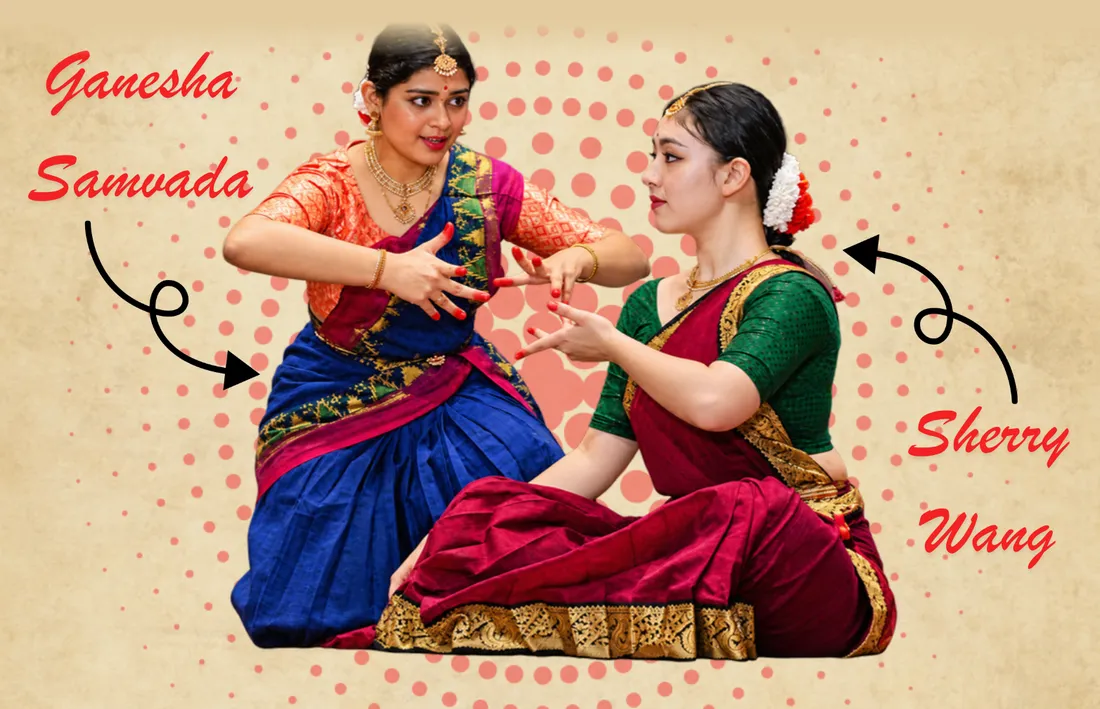
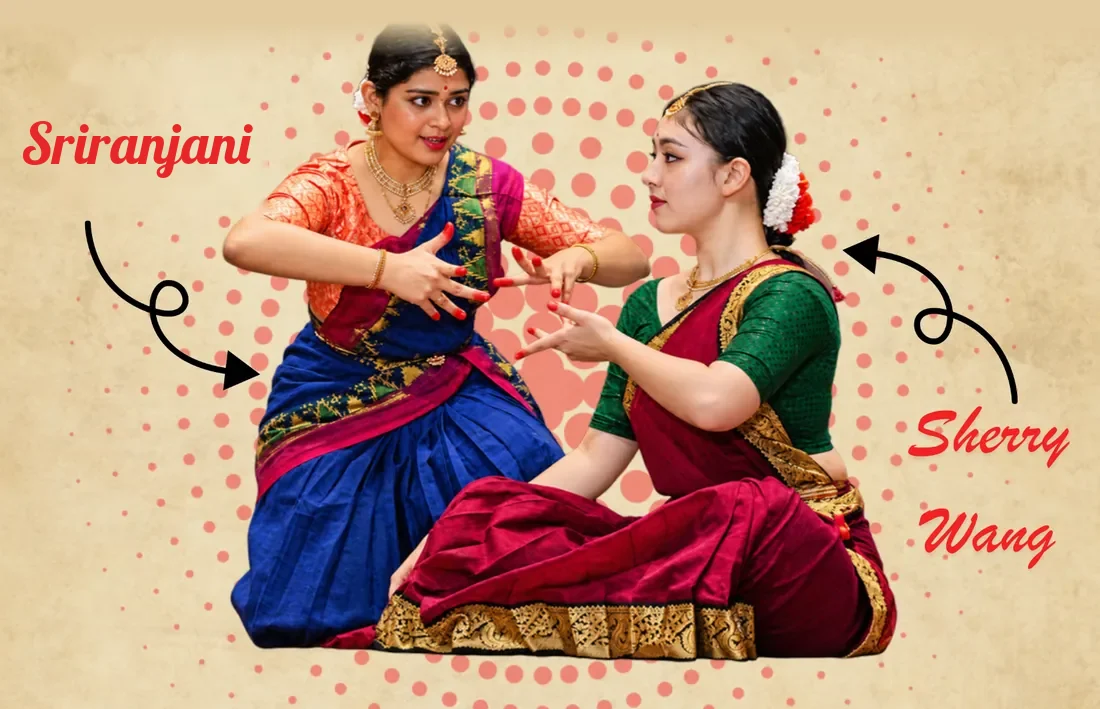
Credit Sriranjani instead of Ganesha Samvada for the Bharatanatyam performance

Changed region(s): [[0.0, 0.0621, 0.2473, 0.3103]]

diff --git a/src/data/diwaliProgram.js b/src/data/diwaliProgram.js
@@ -15,7 +15,7 @@ export const performances = [
   {
     key: 'bharatanatyam',
     title: 'Bharatanatyam',
-    performers: ['Ganesha Samvada', 'Sherry Wang'],
+    performers: ['Sriranjani', 'Sherry Wang'],
     image: '/images/events/perf-bharatanatyam.webp',
     text: "Experience the beauty of Bharatanatyam, one of India's oldest classical dance forms, where graceful movements, expressive gestures, and rhythmic footwork come together to tell beautiful stories. Get ready for a mesmerizing performance filled with tradition, elegance, and cultural richness!",
     zh: '一起感受印度古典舞蹈「婆羅多舞」的優雅魅力！透過優美的舞姿、細膩的手勢與富有節奏感的腳步，展現印度傳統文化與藝術之美，帶來一場充滿韻律、情感與文化氣息的精彩演出。',
